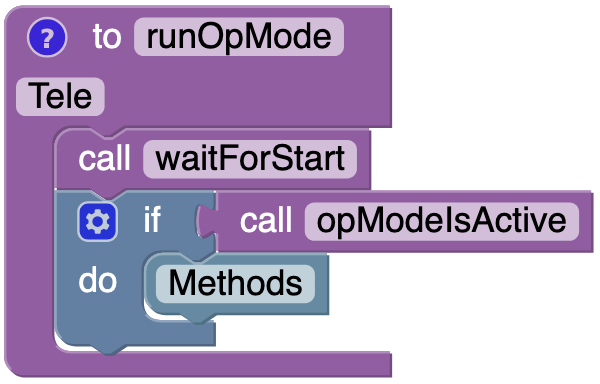
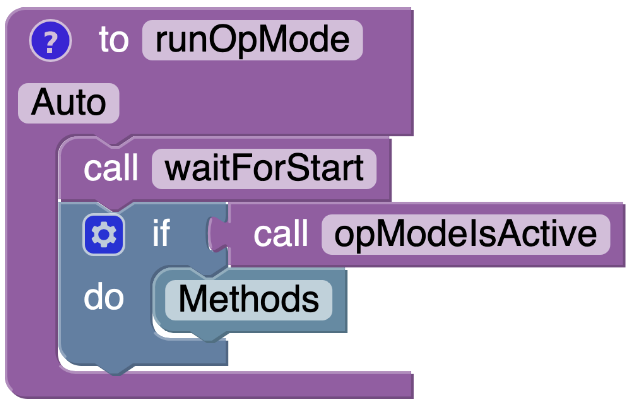
fix: autoStart

diff --git a/docs/gettingstarted.md b/docs/gettingstarted.md
@@ -279,7 +279,7 @@ Before we can dive into coding, follow the Install section of the README
 
     <details>
     <summary>Autonomous - Starting Code</summary>
-    ![TeleOp - Starting Code](./img/blk/gs/teleStart.png)
+    ![Autonomous - Starting Code](./img/blk/gs/autoStart.png)
     </details>
 
 
